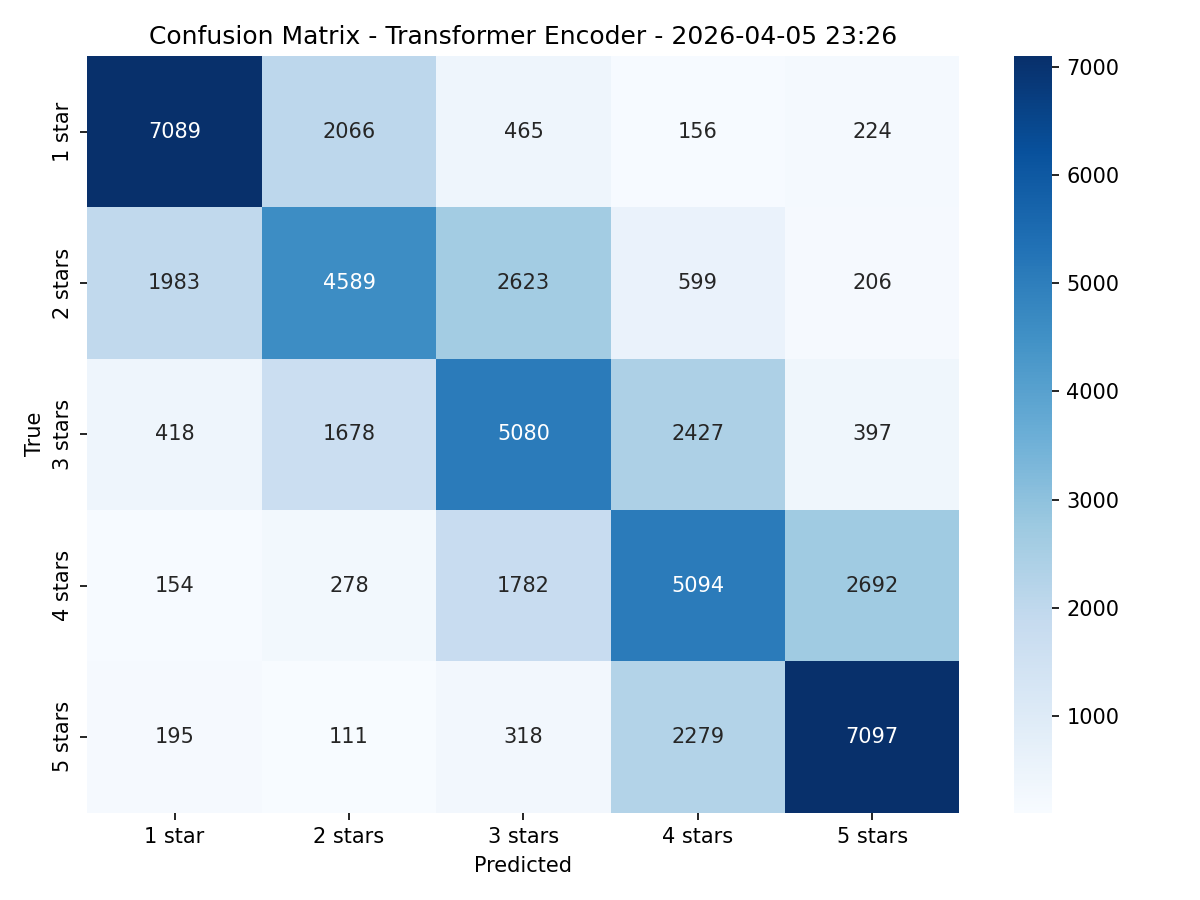
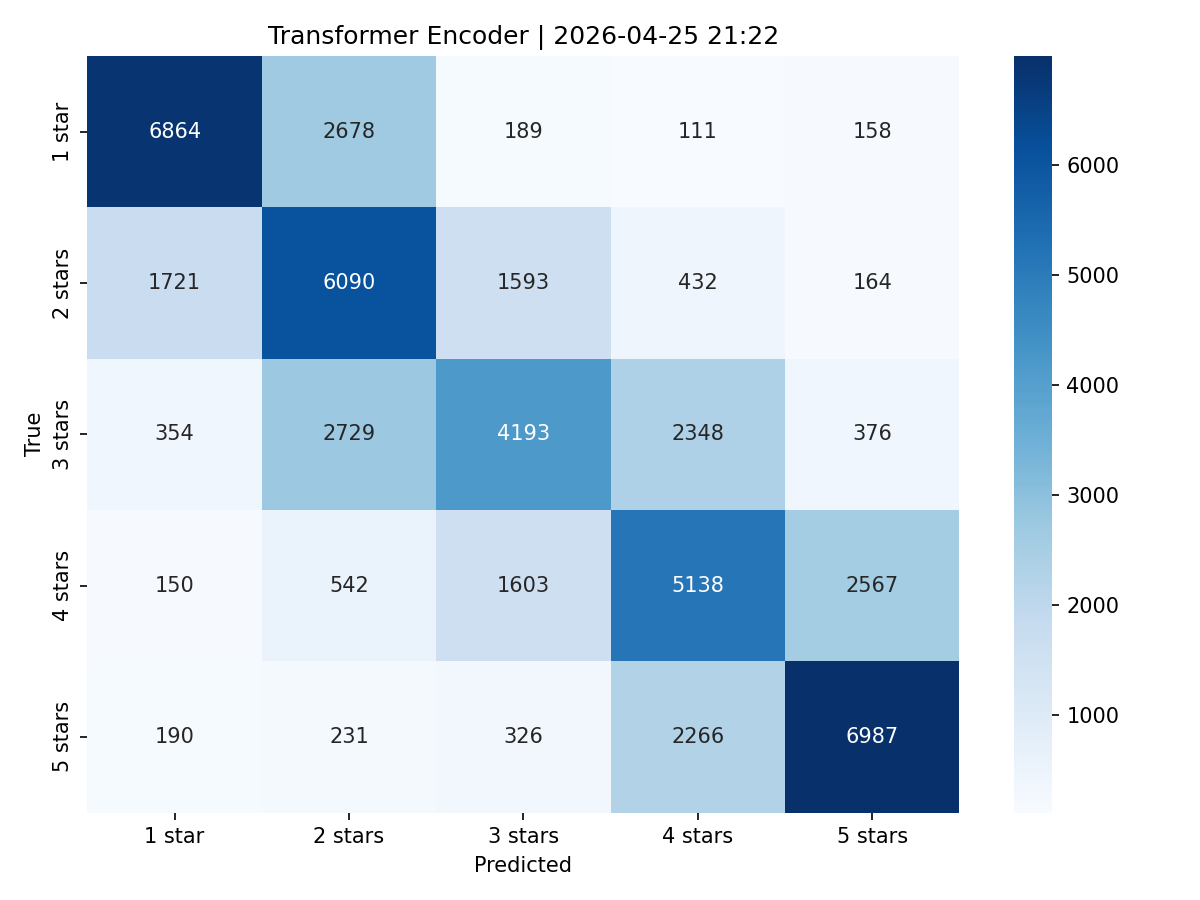
Added best hyperparameters for Transformers

diff --git a/Transformers/tuning_log.md b/Transformers/tuning_log.md
@@ -1,0 +1,32 @@
+# Transformer Encoder - Tuning Results (2026-04-25 20:56)
+
+**Device:** Tesla T4  
+
+| # | Max Vocab | Max Len | Embed Dim | Num Heads | Num Layers | Ff Dim | Dropout | Epochs | Batch Size | Lr | Weight Decay | Macro F1 | Time (s) |
+|---|---|---|---|---|---|---|---|---|---|---|---|---|---|
+| 1 | 25000 | 160 | 256 | 4 | 2 | 512 | 0.1142072116395774 | 2 | 32 | 0.0005435575860612143 | 0.000906226347126195 | 0.4799 | 31 |
+| 2 | 15000 | 128 | 128 | 4 | 2 | 256 | 0.2235270994151754 | 3 | 32 | 0.0002012887125668141 | 7.4827960376208e-05 | 0.4283 | 17 |
+| 3 | 15000 | 96 | 256 | 4 | 2 | 256 | 0.2306216650930797 | 3 | 32 | 0.00012395892904769156 | 0.0002054277828628595 | 0.4536 | 25 |
+| 4 | 30000 | 160 | 256 | 8 | 3 | 512 | 0.12403931224263379 | 2 | 64 | 0.00011329504687424788 | 0.00024262985503685795 | 0.4426 | 43 |
+| 5 | 15000 | 160 | 256 | 8 | 2 | 256 | 0.2657880058434726 | 3 | 64 | 0.0006503447723302502 | 3.1441719363595296e-05 | 0.4994 | 37 |
+| 6 | 25000 | 128 | 128 | 8 | 3 | 512 | 0.23850631801555316 | 2 | 32 | 0.00022813875689271763 | 0.00016322490640824139 | 0.4053 | 21 |
+| 7 | 30000 | 128 | 256 | 8 | 3 | 256 | 0.2793093191702126 | 3 | 32 | 0.0003934185762155477 | 1.5865500409725956e-05 | 0.4872 | 47 |
+| 8 | 30000 | 128 | 128 | 4 | 2 | 512 | 0.19070853653561376 | 3 | 32 | 0.00010230563364558177 | 5.247544485517223e-05 | 0.4040 | 21 |
+| 9 | 15000 | 128 | 128 | 8 | 2 | 512 | 0.2154457177208335 | 3 | 32 | 0.00031516048838112123 | 0.0002885652688254661 | 0.4589 | 21 |
+| 10 | 25000 | 128 | 128 | 4 | 2 | 256 | 0.13592073551192696 | 3 | 32 | 0.00028409398560885036 | 0.0006213589898082908 | 0.4573 | 18 |
+
+## Best Result (This Run)
+
+- **Macro F1:** 0.4994
+- **Max Vocab:** 15000
+- **Max Len:** 160
+- **Embed Dim:** 256
+- **Num Heads:** 8
+- **Num Layers:** 2
+- **Ff Dim:** 256
+- **Dropout:** 0.2658
+- **Epochs:** 3
+- **Batch Size:** 64
+- **Lr:** 0.0007
+- **Weight Decay:** 0.0000
+- **Total Tuning Time:** 282s (4.7m)

diff --git a/Transformers/results_log.md b/Transformers/results_log.md
@@ -8,3 +8,13 @@
 - **Macro Recall:** 0.5790
 - **Macro F1:** 0.5781
 - **Time:** 247.8s (4.1m)
+
+## Transformer Encoder (final, best config)
+
+- **Date:** 2026-04-25 21:22
+- **Device:** Tesla T4
+- **Accuracy:** 0.5854
+- **Macro Precision:** 0.5894
+- **Macro Recall:** 0.5854
+- **Macro F1:** 0.5847
+- **Time:** 1296.6s (21.6m)
